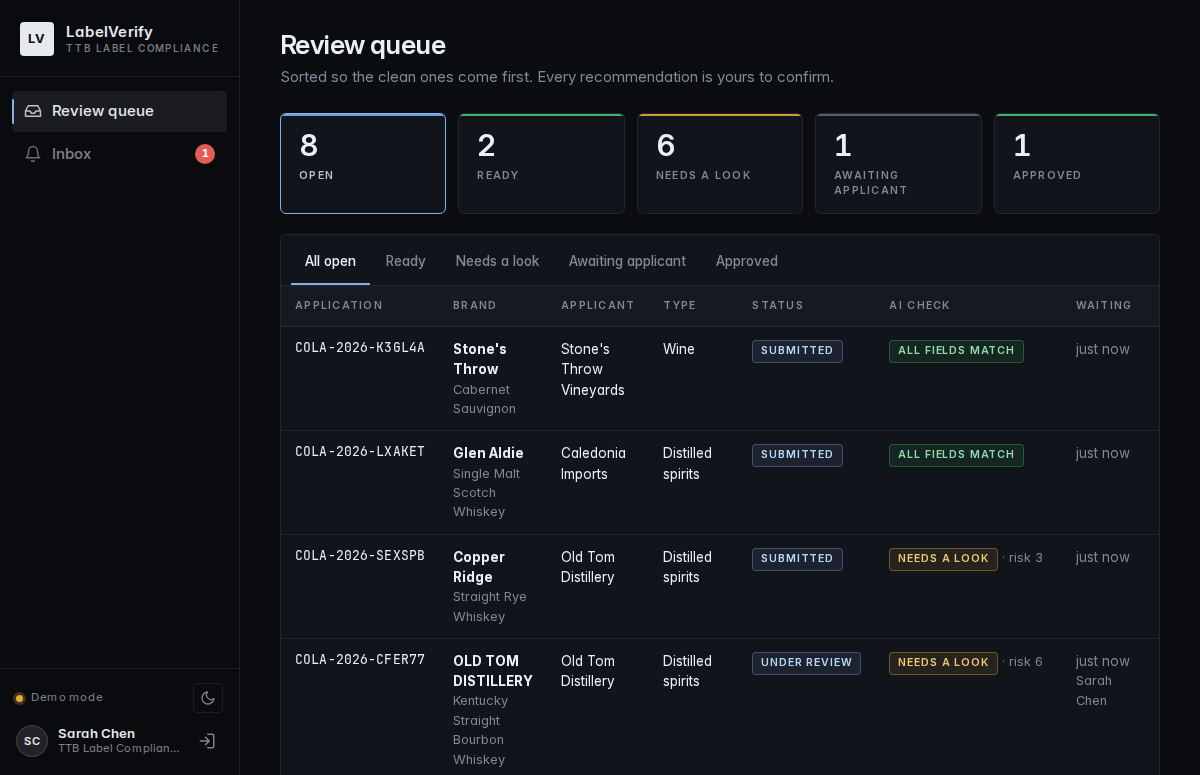
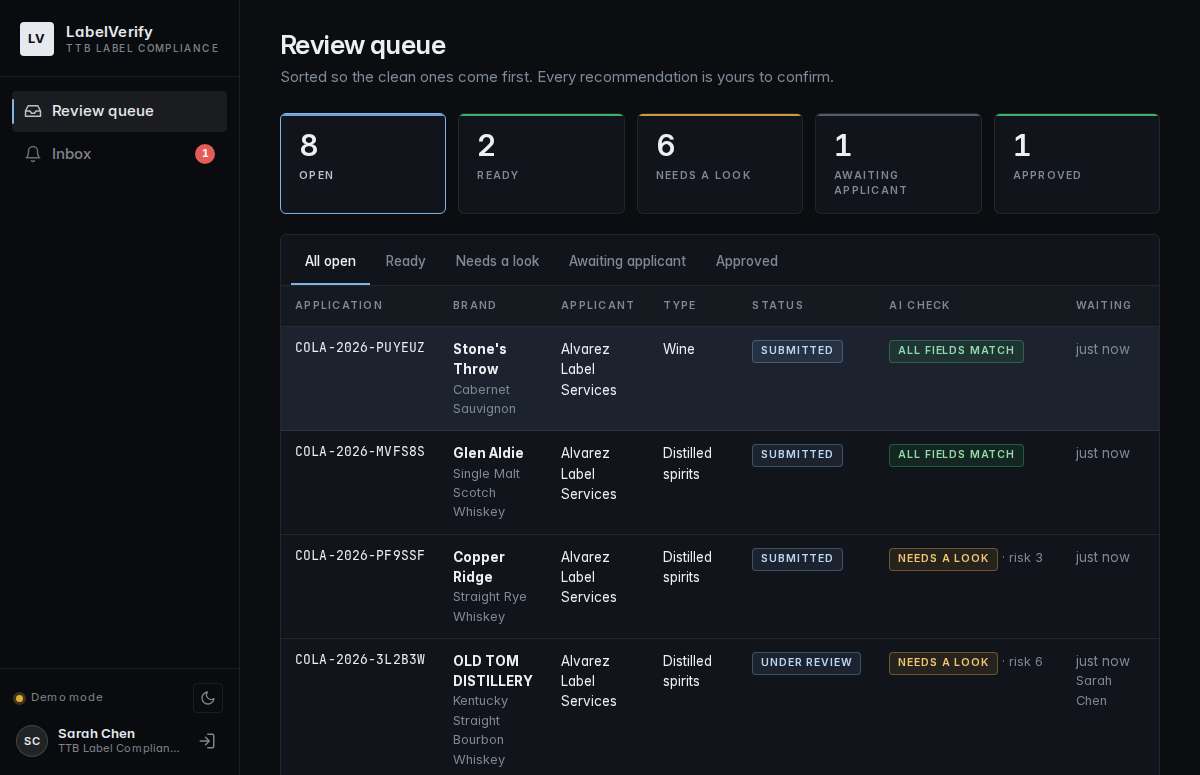
Two demo accounts: one specialist, one applicant who files for several producers
The applicant becomes a label-compliance agent, so a single account holds all
ten sample cases. Tests that need a second tenant or a second specialist create
those accounts on demand through seed.ensure_user.

Claude-Session: https://claude.ai/code/session_01UaFdaeUbNmkensaSb3BZLg

diff --git a/labelverify/web/seed.py b/labelverify/web/seed.py
@@ -20,6 +20,9 @@ log = logging.getLogger(__name__)
 
 DEMO_PASSWORD = "labelverify"
 
+# Two demo accounts, one per role. The applicant is a label-compliance agent who files
+# COLAs on behalf of several producers, which is why one account holds labels from Old
+# Tom Distillery, Stone's Throw Vineyards, and Caledonia Imports.
 USERS = [
     {
         "email": "sarah.chen@ttb.gov",
@@ -28,30 +31,14 @@ USERS = [
         "organization": "TTB Label Compliance",
     },
     {
-        "email": "jenny.park@ttb.gov",
-        "name": "Jenny Park",
-        "role": Role.SPECIALIST,
-        "organization": "TTB Label Compliance",
-    },
-    {
-        "email": "labels@oldtomdistillery.com",
+        "email": "maria@alvarezlabels.com",
         "name": "Maria Alvarez",
         "role": Role.APPLICANT,
-        "organization": "Old Tom Distillery",
-    },
-    {
-        "email": "compliance@stonesthrow.wine",
-        "name": "Devin Okafor",
-        "role": Role.APPLICANT,
-        "organization": "Stone's Throw Vineyards",
-    },
-    {
-        "email": "imports@caledonia-imports.com",
-        "name": "Priya Natarajan",
-        "role": Role.APPLICANT,
-        "organization": "Caledonia Imports",
+        "organization": "Alvarez Label Services",
     },
 ]
+SPECIALIST_EMAIL = USERS[0]["email"]
+APPLICANT_EMAIL = USERS[1]["email"]
 
 
 # Applicant replies seeded on the correction-requested samples, so the specialist's queue
@@ -65,24 +52,32 @@ SEED_REPLIES = {
 }
 
 
+def ensure_user(
+    db: Session, *, email: str, name: str, role: str, organization: str = ""
+) -> User:
+    """Create an account with the demo password if it does not exist yet."""
+    user = db.scalar(select(User).where(User.email == email))
+    if user is None:
+        user = User(
+            email=email,
+            name=name,
+            role=role,
+            organization=organization,
+            password_hash=hash_password(DEMO_PASSWORD),
+        )
+        db.add(user)
+        db.flush()
+    return user
+
+
 def seed_users(db: Session) -> dict[str, User]:
-    users: dict[str, User] = {}
-    for spec in USERS:
-        user = db.scalar(select(User).where(User.email == spec["email"]))
-        if user is None:
-            user = User(password_hash=hash_password(DEMO_PASSWORD), **spec)
-            db.add(user)
-        users[spec["email"]] = user
+    users = {spec["email"]: ensure_user(db, **spec) for spec in USERS}
     db.flush()
     return users
 
 
 def _applicant_for(sample_id: str, users: dict[str, User]) -> User:
-    if sample_id.startswith("stones-throw") or sample_id.startswith("sunset"):
-        return users["compliance@stonesthrow.wine"]
-    if sample_id.startswith("glen") or sample_id.startswith("harbor"):
-        return users["imports@caledonia-imports.com"]
-    return users["labels@oldtomdistillery.com"]
+    return users[APPLICANT_EMAIL]
 
 
 def _default_state(expected: str, seen: dict[str, int]) -> str:

diff --git a/tests/test_services.py b/tests/test_services.py
@@ -47,7 +47,7 @@ def sample_bytes(sample_id: str) -> bytes:
 
 
 def make_app(db, users, sample_id="old-tom-bourbon", extractor=None):
-    applicant = users["labels@oldtomdistillery.com"]
+    applicant = users["maria@alvarezlabels.com"]
     data = ApplicationData.model_validate(sample(sample_id)["application"])
     app = services.create_draft(db, applicant, data, [(sample_bytes(sample_id), "label.png")])
     services.record_run(db, app, extractor or DemoExtractor(), "precheck")
@@ -58,7 +58,7 @@ def make_app(db, users, sample_id="old-tom-bourbon", extractor=None):
 class TestUsersAndSerials:
     def test_seed_users_have_roles_and_passwords(self, users):
         assert users["sarah.chen@ttb.gov"].role == Role.SPECIALIST
-        assert users["labels@oldtomdistillery.com"].role == Role.APPLICANT
+        assert users["maria@alvarezlabels.com"].role == Role.APPLICANT
         assert verify_password(DEMO_PASSWORD, users["sarah.chen@ttb.gov"].password_hash)
         assert not verify_password("wrong", users["sarah.chen@ttb.gov"].password_hash)
 
@@ -86,7 +86,7 @@ class TestDraftAndPrecheck:
         assert app.risk_score >= 10
 
     def test_extraction_failure_is_recorded_not_raised(self, db, users):
-        applicant = users["labels@oldtomdistillery.com"]
+        applicant = users["maria@alvarezlabels.com"]
         data = ApplicationData.model_validate(sample("old-tom-bourbon")["application"])
         # A valid image that the demo extractor does not recognize:
         from PIL import Image
@@ -303,7 +303,7 @@ class TestUnreadActivity:
 
 class TestLabelSets:
     def test_front_and_back_panels_are_one_version(self, db, users):
-        applicant = users["labels@oldtomdistillery.com"]
+        applicant = users["maria@alvarezlabels.com"]
         data = ApplicationData.model_validate(sample("old-tom-bourbon")["application"])
         app = services.create_draft(
             db,
@@ -349,7 +349,7 @@ class TestLabelSets:
         assert app.latest_run.image_version == 2
 
     def test_too_many_panels_is_rejected(self, db, users):
-        applicant = users["labels@oldtomdistillery.com"]
+        applicant = users["maria@alvarezlabels.com"]
         data = ApplicationData.model_validate(sample("old-tom-bourbon")["application"])
         with pytest.raises(UnreadableImageError, match="at most 4"):
             services.create_draft(
@@ -430,7 +430,7 @@ class TestBatch:
         )
         assert parsed.errors == [] and len(parsed.rows) == 3 and len(parsed.images) == 2
 
-        batch = services.create_batch(db, users["labels@oldtomdistillery.com"], "peak.csv", parsed)
+        batch = services.create_batch(db, users["maria@alvarezlabels.com"], "peak.csv", parsed)
         db.commit()
         services.process_batch(session_factory, batch.id, parsed, DemoExtractor())
 

diff --git a/tests/test_web.py b/tests/test_web.py
@@ -15,7 +15,7 @@ from labelverify.engine.extractors.demo import SAMPLES_DIR, load_manifest
 from labelverify.web.app import create_app
 
 SPECIALIST = {"email": "sarah.chen@ttb.gov", "password": "labelverify"}
-APPLICANT = {"email": "labels@oldtomdistillery.com", "password": "labelverify"}
+APPLICANT = {"email": "maria@alvarezlabels.com", "password": "labelverify"}
 
 FORM = {
     "beverage_type": "distilled_spirits",
@@ -63,6 +63,22 @@ def specialist(app):
 @pytest.fixture
 def applicant(app):
     return login(app, APPLICANT)
+
+
+def other_applicant(app) -> dict:
+    """A second applicant account, created on demand: the demo seeds only one."""
+    from labelverify.web.seed import ensure_user
+
+    with app.state.session_factory() as db:
+        ensure_user(
+            db,
+            email="compliance@stonesthrow.wine",
+            name="Devin Okafor",
+            role="applicant",
+            organization="Stone's Throw Vineyards",
+        )
+        db.commit()
+    return {"email": "compliance@stonesthrow.wine", "password": "labelverify"}
 
 
 def ids_in(html: str, prefix: str) -> list[str]:
@@ -337,7 +353,7 @@ class TestComments:
         assert applicant.get("/me/unread").json()["count"] == before + 2
         assert applicant.get("/inbox").text.count('pill-xs">New</span>') == pills - 1
         # A cross-tenant item id is a 404, not a leak.
-        other = login(specialist.app, {"email": "compliance@stonesthrow.wine", "password": "labelverify"})
+        other = login(specialist.app, other_applicant(specialist.app))
         assert other.get(links[1], follow_redirects=False).status_code == 404
 
     def test_inbox_mark_all_read(self, specialist, applicant):
@@ -378,7 +394,7 @@ class TestComments:
         )
 
     def test_applicant_cannot_see_other_applicants_application(self, app, applicant):
-        other = login(app, {"email": "compliance@stonesthrow.wine", "password": "labelverify"})
+        other = login(app, other_applicant(app))
         mine = ids_in(applicant.get("/applicant").text, "/applicant/applications")[0]
         assert other.get(f"/applicant/applications/{mine}").status_code == 404
         assert (
@@ -570,7 +586,7 @@ class TestBatch:
         )
         assert applicant.get(batch_url).status_code == 200
         assert "peak.csv" in applicant.get("/applicant/batches").text
-        assert "Old Tom" in specialist.get("/specialist").text
+        assert "OLD TOM DISTILLERY" in specialist.get("/specialist").text  # the batch rows are queued
 
     def test_batch_validation_errors_render(self, applicant):
         resp = applicant.post(

diff --git a/tests/test_communication.py b/tests/test_communication.py
@@ -19,12 +19,13 @@ from fastapi.testclient import TestClient
 from labelverify.engine.extractors import DemoExtractor
 from labelverify.engine.extractors.demo import load_manifest
 from labelverify.web.app import create_app
-from labelverify.web.seed import DEMO_PASSWORD, seed_users
+from labelverify.web.seed import DEMO_PASSWORD, ensure_user, seed_users
 
 SARAH = "sarah.chen@ttb.gov"  # specialist
-JENNY = "jenny.park@ttb.gov"  # second specialist
-MARIA = "labels@oldtomdistillery.com"  # applicant, Old Tom Distillery
-DEVIN = "compliance@stonesthrow.wine"  # another applicant
+MARIA = "maria@alvarezlabels.com"  # applicant, Alvarez Label Services
+# Extra accounts the scenarios create on demand; the demo itself seeds only the two above.
+JENNY = ("jenny.park@ttb.gov", "Jenny Park", "specialist", "TTB Label Compliance")
+DEVIN = ("compliance@stonesthrow.wine", "Devin Okafor", "applicant", "Stone's Throw Vineyards")
 
 NEW_PILL = 'pill-xs">New</span>'
 
@@ -54,7 +55,13 @@ def app(tmp_path):
 class Party:
     """One logged-in person, with the handful of actions the scenarios need."""
 
-    def __init__(self, app, email: str):
+    def __init__(self, app, email: str | tuple):
+        if isinstance(email, tuple):  # an extra account: create it first
+            spec = dict(zip(("email", "name", "role", "organization"), email, strict=True))
+            with app.state.session_factory() as db:
+                ensure_user(db, **spec)
+                db.commit()
+            email = spec["email"]
         self.app = app
         self.email = email
         self.role = "specialist" if email.endswith("@ttb.gov") else "applicant"
@@ -389,7 +396,7 @@ class TestResolutionAndIsolation:
         devin.comment(b, "general", "From Stone's Throw")
         assert sarah.unread() == 2
         inbox = text_of(sarah.inbox())
-        assert "Old Tom Distillery" in inbox and "Stone's Throw Vineyards" in inbox
+        assert "Alvarez Label Services" in inbox and "Stone's Throw Vineyards" in inbox
 
 
 class TestLiveness:

diff --git a/README.md b/README.md
@@ -71,9 +71,11 @@ Open the landing page, choose Sign in, and use one of the demo accounts (passwor
 
 | Role | Account | What to try |
 | --- | --- | --- |
-| Labeling specialist | sarah.chen@ttb.gov | Open the queue, review a "needs a look" item, draft a correction notice |
-| Applicant | labels@oldtomdistillery.com | Start a new application from a sample label, run the pre-check, submit; fix the one awaiting correction |
-| Applicant | imports@caledonia-imports.com | Batch upload with the template CSV and the sample images |
+| Labeling specialist | sarah.chen@ttb.gov | Open the queue, review a "needs a look" item, draft a correction notice, answer the reply waiting in the inbox |
+| Applicant | maria@alvarezlabels.com | Start a new application from a sample label, run the pre-check, submit; fix the one awaiting correction; batch upload with the template CSV and the sample images |
+
+Maria is a label-compliance agent filing for several producers, so her one account holds
+all ten sample cases.
 
 The database is seeded on first start with ten sample applications in a mix of states so
 every screen has content.
